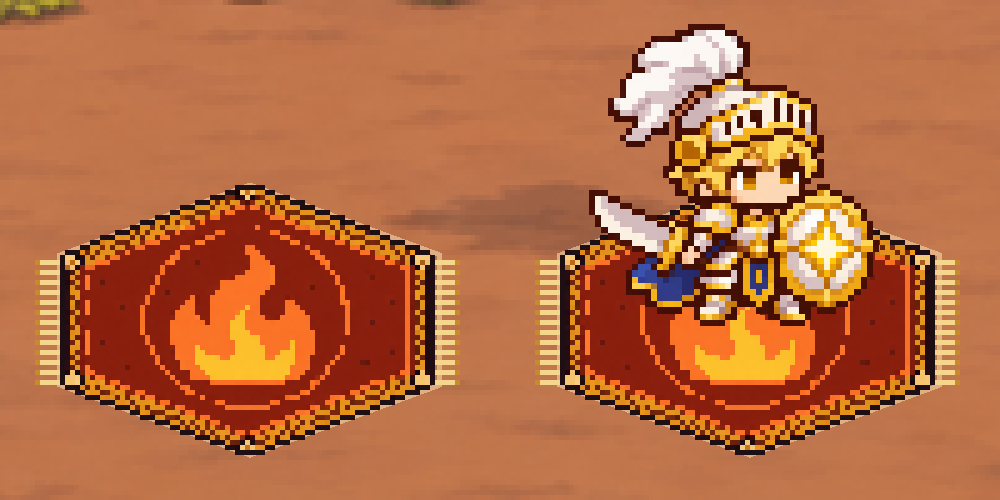
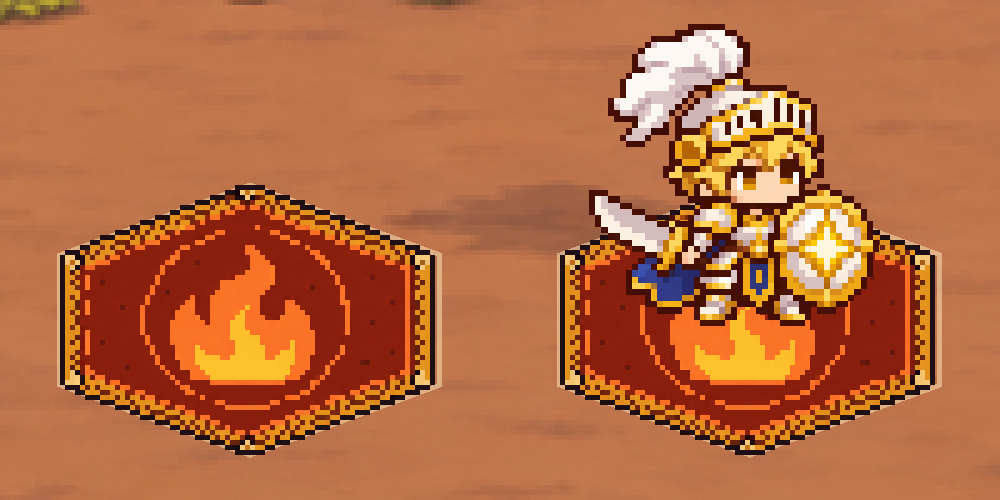
단상 불 양탄자: 실 술 뺌 (확인 대기)

diff --git a/개발일지/2026-11-26/이미지.md b/개발일지/2026-11-26/이미지.md
@@ -162,3 +162,7 @@
 ## [디자인] 단상 불: 양탄자 끝 시안 (확인 대기)
 - 의도: "양탄자나 카페트 느낌나게도 가능해 끝부분?"
 - 돌 테두리 대신 금빛 직물 테두리(지그재그 박음질) + 모서리 매듭, 좌우 세로 변에 실 술(코덱스가 막대처럼 그려서 술은 도트로 직접). img/codex/pad/rug_시안.png(94×62), rug_preview.png. 돌 테두리판(fire_시안.png)과 고르기 대기.
+
+## [디자인] 단상 불 양탄자: 실 술 뺌 (확인 대기)
+- 의도: "가장자리 실타래나온건빼도될듯"
+- 좌우 술을 없애고 세로 변 두께를 다른 변과 맞춤. 직물 테두리·모서리 매듭은 그대로. img/codex/pad/rug_시안.png. 확인 대기.
